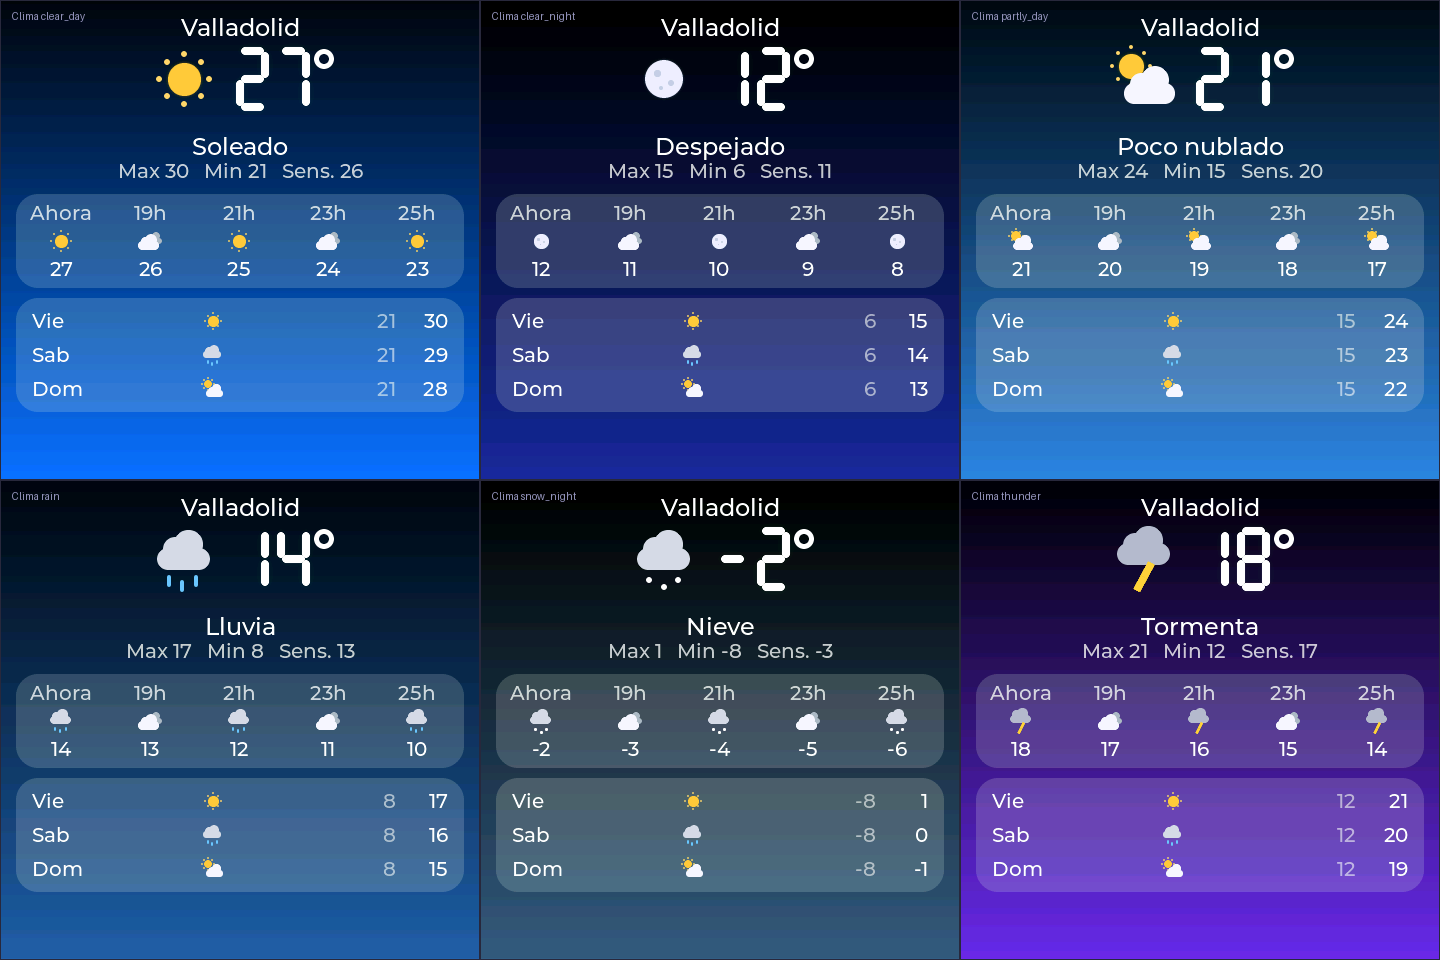
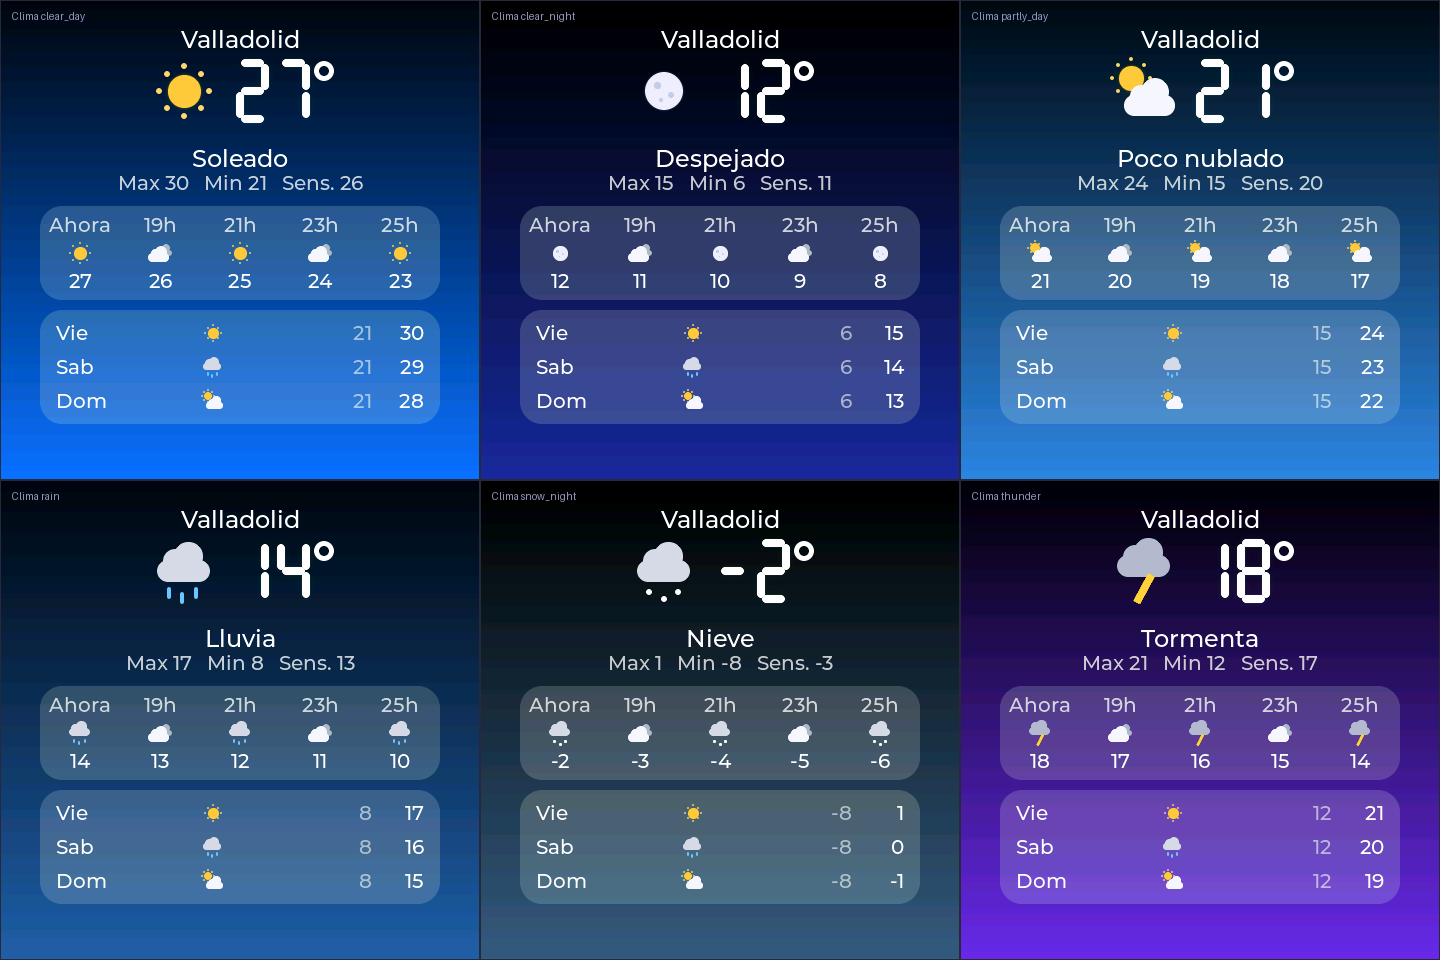
Halo sin sombras (evita bloqueos), aro de estado, caída completa en 480, drive sin sol tras la boca, ajustes y clima adaptados a 2.16
Claude-Session: https://claude.ai/code/session_01QWb9hv5xYpQ7Tn1j11KHGt

diff --git a/components/chipo_face/chipo_face.cpp b/components/chipo_face/chipo_face.cpp
@@ -88,7 +88,8 @@ bool IsDefaultGlow(uint32_t rgb) {
 }
 
 // Mouth shapes: the half-moon smile only fits happy faces; sad ones get it upside down.
-enum MouthKind : uint8_t { kMouthSmile = 0, kMouthFrown = 1, kMouthO = 2, kMouthFlat = 3 };
+enum MouthKind : uint8_t { kMouthSmile = 0, kMouthFrown = 1, kMouthO = 2, kMouthFlat = 3, kMouthGrin = 4 };
+constexpr uint32_t kRingCyan = 0x5CF0FF;   // ring + halo while listening / speaking (calm colour)
 constexpr uint32_t kHappyArc = 0xFFD2B0;   // closed happy eyes (peach)
 constexpr uint32_t kSleepArc = 0xC9B0FF;   // closed sleeping eyes (lilac)
 
@@ -213,8 +214,10 @@ bool ChipoFace::Start(lv_obj_t* parent) {
         return false;
     }
 
-    StyleGlow(left_eye_, kEyeCore, 20);
-    StyleGlow(right_eye_, kEyeCore, 20);
+    // No LVGL shadow on the eyes: software box shadows can stall the renderer for seconds on some sizes
+    // (seen at 480 x 480). The glow is drawn by the flat halo discs behind the eyes instead.
+    StyleGlow(left_eye_, kEyeCore, 0);
+    StyleGlow(right_eye_, kEyeCore, 0);
     StylePupil(left_pupil_);
     StylePupil(right_pupil_);
     // Two specular highlights on every pupil (a big and a small one) make the eyes look wet and deep.
@@ -287,6 +290,16 @@ bool ChipoFace::Start(lv_obj_t* parent) {
         MakeInert(brow);
         lv_obj_add_flag(brow, LV_OBJ_FLAG_HIDDEN);
     }
+    for (auto& halo : halo_) {  // [0..1] outer, [2..3] inner, per eye
+        halo = lv_obj_create(root_);
+        if (!halo) continue;
+        lv_obj_remove_style_all(halo);
+        lv_obj_set_style_bg_opa(halo, LV_OPA_TRANSP, LV_PART_MAIN);
+        lv_obj_set_style_radius(halo, LV_RADIUS_CIRCLE, LV_PART_MAIN);
+        MakeInert(halo);
+        lv_obj_move_background(halo);  // behind the eyes
+        lv_obj_add_flag(halo, LV_OBJ_FLAG_HIDDEN);
+    }
     for (auto& arc : eye_arc_) {
         arc = lv_arc_create(root_);
         if (!arc) continue;
@@ -301,7 +314,7 @@ bool ChipoFace::Start(lv_obj_t* parent) {
         lv_obj_add_flag(arc, LV_OBJ_FLAG_HIDDEN);
     }
     for (int i = 0; i < 3; ++i) {
-        StyleGlow(dots_[i], kEyeLilac, 8);
+        StyleGlow(dots_[i], kEyeLilac, 0);
         lv_obj_set_size(dots_[i], S(8), S(8));
         lv_obj_set_pos(dots_[i], S(kCenterX) + S((i - 1) * 22 - 4), S(kDotsY));
         lv_obj_add_flag(dots_[i], LV_OBJ_FLAG_HIDDEN);
@@ -436,6 +449,7 @@ void ChipoFace::Stop() {
     road_shown_ = false;
     root_ = left_eye_ = right_eye_ = left_pupil_ = right_pupil_ = mouth_ = tongue_ = bowl_ = inner_ = nullptr;
     eye_arc_[0] = eye_arc_[1] = nullptr;
+    for (auto& o : halo_) o = nullptr;
     for (auto& o : brow_) o = nullptr;
     for (auto& o : blush_) o = nullptr;
     for (auto& dot : dots_) dot = nullptr;
@@ -690,6 +704,7 @@ ChipoFace::Pose ChipoFace::TargetPose(State shown, Mood mood, Emotion emotion, u
         p.eye_h = 48;
         p.pupil_y = 4;
         p.mouth_w = 34; p.mouth_h = 11; p.mouth_cy = 168;  // frown
+        p.glow_r = 255; p.glow_g = 100; p.glow_b = 90;    // red ring: something went wrong
         break;
     case State::Sleep:
         p.eye_h = 4; p.pupil_h = 2;
@@ -1154,8 +1169,8 @@ void ChipoFace::Step(uint32_t now_ms) {
         vel_y_ += kFallAccelY * dt;
         face_x_ += vel_x_ * dt;
         face_y_ += vel_y_ * dt;
-        if (std::fabs(face_x_) >= (static_cast<float>(fx_w_) * 0.5f + kGoneMargin)) {  // gone: park it out of sight
-            face_x_ = static_cast<float>(fall_dir_) * (static_cast<float>(fx_w_) * 0.5f + kGoneMargin);
+        if (std::fabs(face_x_) >= (static_cast<float>(fx_w_) * 0.5f + kGoneMargin * fs_)) {  // gone: park it out of sight
+            face_x_ = static_cast<float>(fall_dir_) * (static_cast<float>(fx_w_) * 0.5f + kGoneMargin * fs_);
             vel_x_ = 0;
         }
         if (face_y_ >= kFallMaxDropY) {
@@ -1258,11 +1273,18 @@ void ChipoFace::Step(uint32_t now_ms) {
         default: break;
         }
         if (mood == Mood::Startled || mood == Mood::Dizzy) mk = kMouthO;  // "oh!"
+        if (drive_mode_ && mk == kMouthSmile) mk = kMouthGrin;  // cool driver: closed grin, no tongue over the sun
         layout.mouth_kind = mk;
         uint8_t arc = 0;
         if (emotion == Emotion::Happy || emotion == Emotion::Laugh) arc = 1;
         else if (emotion == Emotion::None && shown == State::Sleep) arc = 2;
         layout.eye_arc = arc;
+        // A glowing ring round the eyes tells "I'm listening / talking / something happened";
+        // calm faces (idle, thinking, asleep, sleepy) keep plain lilac eyes.
+        layout.ring = mood != Mood::Normal ||
+                      (emotion == Emotion::None
+                           ? (shown == State::Listening || shown == State::Speaking || shown == State::Error)
+                           : emotion != Emotion::Tired);
         if (arc) layout.pupils_visible = layout.right_pupil_visible = false;
         if (arc) layout.brows_visible = false;
         layout.blush_visible = emotion == Emotion::Happy || emotion == Emotion::Laugh || emotion == Emotion::Love ||
@@ -1273,7 +1295,8 @@ void ChipoFace::Step(uint32_t now_ms) {
     layout.face_dx = Round16(face_x_);
     float sway = 0;  // the car rocks the face gently while driving
     if (drive_mode_) sway = glasses_t_ * (2.0f * std::sin(static_cast<float>(now_ms) * 0.0022f) + road_jolt_ * 3.0f);
-    layout.face_dy = Round16(face_y_ + sway);
+    // Driving: the face rides a little higher so the sunset sits below the mouth, not behind it.
+    layout.face_dy = Round16(face_y_ + sway - glasses_t_ * 30.0f * fs_);
     UpdateGlasses(layout, dt);
     UpdateRoad(dt, now_ms);
     ApplyLayout(layout);
@@ -1377,8 +1400,8 @@ void ChipoFace::CreateRoad(lv_obj_t* parent) {
         MakeInert(o);
     };
     // Synthwave scenery (AMOLED: true black ground, saturated neon): a half sun sets on a glowing horizon.
-    const int horizon_y = static_cast<int>(h * 0.70f);
-    const int sun_d = 170;
+    const int horizon_y = static_cast<int>(h * 0.78f);  // low enough that the sun sits under the face
+    const int sun_d = 150;
     sun_ = lv_obj_create(road_);
     sun_mask_ = lv_obj_create(road_);
     horizon_ = lv_obj_create(road_);
@@ -1580,28 +1603,14 @@ void ChipoFace::ApplyLayout(const Layout& l) {
     if (first || l.mouth_x != a.mouth_x || l.mouth_y != a.mouth_y) {
         lv_obj_set_pos(mouth_, l.mouth_x, l.mouth_y);
     }
-    if (first || l.glow_w != a.glow_w) {
-        for (lv_obj_t* o : {left_eye_, right_eye_}) {
-            lv_obj_set_style_shadow_width(o, l.glow_w, LV_PART_MAIN);
-        }
-    }
-    if (first || l.glow_opa != a.glow_opa) {
-        const lv_opa_t opa = static_cast<lv_opa_t>(l.glow_opa * 255 / 100);
-        for (lv_obj_t* o : {left_eye_, right_eye_}) {
-            lv_obj_set_style_shadow_opa(o, opa, LV_PART_MAIN);
-        }
-    }
-    if (first || l.glow_rgb != a.glow_rgb) {
+    if (first || l.glow_rgb != a.glow_rgb || l.ring != a.ring) {
         const lv_color_t color = lv_color_hex(l.glow_rgb);
-        for (lv_obj_t* o : {left_eye_, right_eye_}) {
-            lv_obj_set_style_shadow_color(o, color, LV_PART_MAIN);
-        }
         // Cute skin: the mouth is a pink smile and the eyes lilac; the state colour tints them (about a third)
         // so LISTENING / THINKING / ERROR / the emotions still read, and keeps the soft halo around them.
         lv_obj_set_style_bg_color(bowl_, (IsDefaultGlow(l.glow_rgb) ? lv_color_hex(kMouthLip) : lv_color_mix(color, lv_color_hex(kMouthLip), 80)), LV_PART_MAIN);
         for (lv_obj_t* o : {left_eye_, right_eye_}) {  // a coloured ring tells the state; plain lilac when calm
-            lv_obj_set_style_border_width(o, IsDefaultGlow(l.glow_rgb) ? 0 : S(5), LV_PART_MAIN);
-            lv_obj_set_style_border_color(o, color, LV_PART_MAIN);
+            lv_obj_set_style_border_width(o, l.ring ? S(5) : 0, LV_PART_MAIN);
+            lv_obj_set_style_border_color(o, IsDefaultGlow(l.glow_rgb) ? lv_color_hex(kRingCyan) : color, LV_PART_MAIN);
             lv_obj_set_style_border_opa(o, LV_OPA_COVER, LV_PART_MAIN);
         }
         for (lv_obj_t* o : {left_eye_, right_eye_}) {
@@ -1636,9 +1645,10 @@ void ChipoFace::ApplyLayout(const Layout& l) {
             lv_obj_set_size(bowl_, w, std::max<int>(S(5), std::min<int>(h, S(8))));
             lv_obj_set_pos(bowl_, 0, std::max(0, (h - S(8)) / 2));
             break;
-        default:           // half-moon smile, open with tongue when it is big enough
+        default:           // half-moon smile, open with tongue when it is big enough (a grin stays closed)
             lv_obj_set_size(bowl_, w, 2 * h);
             lv_obj_set_pos(bowl_, 0, -h);
+            if (l.mouth_kind == kMouthGrin) break;
             if (open && inner_) {
                 lv_obj_set_size(inner_, w - 2 * rim, 2 * (h - rim));
                 lv_obj_set_pos(inner_, rim, -h + rim);
@@ -1655,6 +1665,31 @@ void ChipoFace::ApplyLayout(const Layout& l) {
         }
         if (inner_) { if (show_inner) lv_obj_remove_flag(inner_, LV_OBJ_FLAG_HIDDEN); else lv_obj_add_flag(inner_, LV_OBJ_FLAG_HIDDEN); }
         if (tongue_) { if (show_tongue) lv_obj_remove_flag(tongue_, LV_OBJ_FLAG_HIDDEN); else lv_obj_add_flag(tongue_, LV_OBJ_FLAG_HIDDEN); }
+    }
+    if (halo_[0] && halo_[1] && halo_[2] && halo_[3] &&
+        (first || l.ring != a.ring || l.glow_rgb != a.glow_rgb || l.glow_w != a.glow_w || l.glow_opa != a.glow_opa ||
+         l.eye_arc != a.eye_arc || l.eye_w != a.eye_w || l.eye_h != a.eye_h || l.eye_y != a.eye_y ||
+         l.right_eye_h != a.right_eye_h || l.right_eye_y != a.right_eye_y || l.left_eye_x != a.left_eye_x ||
+         l.right_eye_x != a.right_eye_x)) {
+        // A soft coloured halo that grows with the face: the shadow glow cannot be scaled up (big software
+        // shadows stall the renderer), so on bigger panels this flat disc carries the state colour.
+        const bool on = l.ring && l.eye_arc == 0;
+        const int g = S(6) + static_cast<int>(static_cast<float>(l.glow_w) * fs_ * 0.35f);
+        const int base = std::min<int>(255, l.glow_opa * 255 / 100);
+        const int16_t hs[2] = {l.eye_h, l.right_eye_h};
+        const int16_t ys[2] = {l.eye_y, l.right_eye_y};
+        const int16_t xs[2] = {l.left_eye_x, l.right_eye_x};
+        for (int k = 0; k < 4; ++k) {
+            const int i = k & 1;                     // which eye
+            const int gg = k < 2 ? g : g / 2;        // outer, then inner ring
+            const int opa = base * (k < 2 ? 18 : 30) / 100;
+            if (!on) { lv_obj_add_flag(halo_[k], LV_OBJ_FLAG_HIDDEN); continue; }
+            lv_obj_set_size(halo_[k], l.eye_w + 2 * gg, hs[i] + 2 * gg);
+            lv_obj_set_pos(halo_[k], xs[i] - gg, ys[i] - gg);
+            lv_obj_set_style_bg_color(halo_[k], lv_color_hex(IsDefaultGlow(l.glow_rgb) ? kRingCyan : l.glow_rgb), LV_PART_MAIN);
+            lv_obj_set_style_bg_opa(halo_[k], static_cast<lv_opa_t>(opa), LV_PART_MAIN);
+            lv_obj_remove_flag(halo_[k], LV_OBJ_FLAG_HIDDEN);
+        }
     }
     if (eye_arc_[0] && eye_arc_[1] &&
         (first || l.eye_arc != a.eye_arc || l.eye_w != a.eye_w || l.left_eye_x != a.left_eye_x ||

diff --git a/components/chipo_settings/chipo_settings.cpp b/components/chipo_settings/chipo_settings.cpp
@@ -164,38 +164,42 @@ void ChipoSettings::Build(const lv_font_t* font, const char* version) {
     menu_ = Box(lv_screen_active(), 0, 0, w, h, 0, 0x000000);
     lv_obj_add_flag(menu_, LV_OBJ_FLAG_CLICKABLE);  // swallows the taps: nothing under the menu reacts
     lv_obj_add_flag(menu_, LV_OBJ_FLAG_HIDDEN);
-    const int ox = w > kLayoutW ? (w - kLayoutW) / 2 : 0;
+    // Wider panels (2.16": 480 px) get a wider menu: same rows, longer bars and buttons, centred.
+    const int cw = std::min(std::max(w, kLayoutW), 440);
+    const int ox = (w - cw) / 2;
     const int oy = h > kLayoutH ? (h - kLayoutH) / 2 : 0;
-    lv_obj_t* content = Box(menu_, ox, oy, kLayoutW, kLayoutH, 0, 0x000000, 0);
+    const int bar_x = 24 + 64 + 14, bar_w = cw - 2 * bar_x, plus_x = cw - 24 - 64;
+    const int half_w = (cw - 48 - 16) / 2;
+    lv_obj_t* content = Box(menu_, ox, oy, cw, kLayoutH, 0, 0x000000, 0);
     lv_obj_set_style_bg_opa(content, LV_OPA_TRANSP, 0);
-    lv_obj_t* title = Text(content, font, 0, 18, kLayoutW, kCyan, LV_TEXT_ALIGN_CENTER);
+    lv_obj_t* title = Text(content, font, 0, 18, cw, kCyan, LV_TEXT_ALIGN_CENTER);
     lv_label_set_text(title, "AJUSTES");
     lv_obj_set_style_text_letter_space(title, 4, 0);
 
     lv_obj_t* l_vol = Text(content, font, 24, 68, 160, 0xFFFFFF, LV_TEXT_ALIGN_LEFT);
     lv_label_set_text(l_vol, "Volumen");
-    val_vol_ = Text(content, font, 204, 68, 140, kCyan, LV_TEXT_ALIGN_RIGHT);
+    val_vol_ = Text(content, font, cw - 24 - 140, 68, 140, kCyan, LV_TEXT_ALIGN_RIGHT);
     lv_obj_t* b0 = Button(content, font, 24, 104, 64, 50, "-", kCyan);
-    bar_vol_ = Bar(content, 102, 121, 164);
-    lv_obj_t* b1 = Button(content, font, 280, 104, 64, 50, "+", kCyan);
+    bar_vol_ = Bar(content, bar_x, 121, bar_w);
+    lv_obj_t* b1 = Button(content, font, plus_x, 104, 64, 50, "+", kCyan);
 
     lv_obj_t* l_bri = Text(content, font, 24, 176, 160, 0xFFFFFF, LV_TEXT_ALIGN_LEFT);
     lv_label_set_text(l_bri, "Brillo");
-    val_bri_ = Text(content, font, 204, 176, 140, kPink, LV_TEXT_ALIGN_RIGHT);
+    val_bri_ = Text(content, font, cw - 24 - 140, 176, 140, kPink, LV_TEXT_ALIGN_RIGHT);
     lv_obj_t* b2 = Button(content, font, 24, 212, 64, 50, "-", kPink);
-    bar_bri_ = Bar(content, 102, 229, 164);
-    lv_obj_t* b3 = Button(content, font, 280, 212, 64, 50, "+", kPink);
+    bar_bri_ = Bar(content, bar_x, 229, bar_w);
+    lv_obj_t* b3 = Button(content, font, plus_x, 212, 64, 50, "+", kPink);
 
-    info_bat_ = Text(content, font, 24, 292, 320, kGreen, LV_TEXT_ALIGN_LEFT);
-    info_wifi_ = Text(content, font, 24, 326, 320, kCyan, LV_TEXT_ALIGN_LEFT);
-    info_ver_ = Text(content, font, 24, 360, 320, 0x9AA7B2, LV_TEXT_ALIGN_LEFT);
+    info_bat_ = Text(content, font, 24, 292, cw - 48, kGreen, LV_TEXT_ALIGN_LEFT);
+    info_wifi_ = Text(content, font, 24, 326, cw - 48, kCyan, LV_TEXT_ALIGN_LEFT);
+    info_ver_ = Text(content, font, 24, 360, cw - 48, 0x9AA7B2, LV_TEXT_ALIGN_LEFT);
     char buf[64];
     std::snprintf(buf, sizeof(buf), "CHIPO OS %s", version);
     lv_label_set_text(info_ver_, buf);
 
-    lv_obj_t* b4 = Button(content, font, 24, 394, 152, 46, "Reiniciar", kPink);
+    lv_obj_t* b4 = Button(content, font, 24, 394, half_w, 46, "Reiniciar", kPink);
     restart_label_ = lv_obj_get_child(b4, 0);
-    lv_obj_t* b5 = Button(content, font, 192, 394, 152, 46, "Cerrar", kCyan);
+    lv_obj_t* b5 = Button(content, font, 24 + half_w + 16, 394, half_w, 46, "Cerrar", kCyan);
 
     lv_obj_t* buttons[kActionCount] = {b0, b1, b2, b3, b4, b5};
     for (int i = 0; i < kActionCount; ++i) {

diff --git a/components/chipo_weather/chipo_weather_view.cpp b/components/chipo_weather/chipo_weather_view.cpp
@@ -269,7 +269,7 @@ void ChipoWeatherView::RenderStatus(const char* title, const char* line) {
     if (!root_) return;
     BeginRender(WeatherKind::Cloudy, true, true);
     const int lh_m = lv_font_get_line_height(fonts_.medium);
-    int y = 14;
+    int y = 14 + (width_ > 400 ? 12 : 0);  // bigger panels (2.16") have rounded corners: keep clear of them
     lv_obj_t* l = Label(content_, title ? title : "CHIPO", fonts_.medium, kWhite);
     lv_obj_align(l, LV_ALIGN_TOP_MID, 0, y);
     y += lh_m + 6;
@@ -286,9 +286,10 @@ void ChipoWeatherView::Render(const WeatherData& d) {
     BeginRender(d.kind, d.is_day, false);
     const int lh_s = lv_font_get_line_height(fonts_.small);
     const int lh_m = lv_font_get_line_height(fonts_.medium);
-    const int margin = 16;
+    const int edge = width_ > 400 ? 24 : 0;  // 2.16" (480 x 480): rounded corners, keep the cards clear of them
+    const int margin = 16 + edge;
     char buf[48];
-    int y = 14;
+    int y = 14 + edge / 2;
 
     lv_obj_t* city = Label(content_, d.city[0] ? d.city : "CHIPO", fonts_.medium, kWhite);
     lv_obj_align(city, LV_ALIGN_TOP_MID, 0, y);
@@ -332,7 +333,7 @@ void ChipoWeatherView::Render(const WeatherData& d) {
 
     // ---- next days (as many rows as fit above the bottom margin) -------------------------------
     const int row_h = std::max(lh_s + 10, 34);
-    const int room = height_ - 22 - y - 12;
+    const int room = height_ - 22 - y - 12 - edge / 2;
     const int rows = std::min(d.day_count, std::max(0, room / row_h));
     if (rows > 0) {
         lv_obj_t* dcard = Shape(content_, margin, y, width_ - 2 * margin, rows * row_h + 12, 22, kWhite, LV_OPA_20);

diff --git a/tests/host/render_anim.cpp b/tests/host/render_anim.cpp
@@ -1,6 +1,7 @@
 // Developer tool (not a test): renders CHIPO's face animations as numbered PPM frames, one folder per
 // sequence, to review the motion and build GIFs. Usage: render_anim <out_dir> [width height]
 // Sequences: conversation (idle -> listening -> thinking -> speaking -> idle), emotions, sleep, yawn.
+#include <cmath>
 #include <cstdio>
 #include <cstdlib>
 #include <string>
@@ -8,6 +9,13 @@
 #include <sys/stat.h>
 
 #include "chipo_face.h"
+
+// Fake accelerometer: gravity on +Y when CHIPO stands upright (as in test_face.cpp).
+static ImuSample g_imu{0, 1, 0};
+static void SetRoll(float deg) {
+    const float r = deg * 3.14159265f / 180.0f;
+    g_imu = {std::sin(r), std::cos(r), 0};
+}
 
 static uint32_t g_now = 1000;
 static uint32_t FakeTick() { return g_now; }
@@ -54,6 +62,7 @@ int main(int argc, char** argv) {
     ChipoFace face;
     face.SetIdleQuirks(false);
     face.Start(lv_screen_active());
+    face.SetTiltSource([](ImuSample* s) { *s = g_imu; return true; });
     for (int i = 0; i < 40; ++i) { g_now += 40; lv_timer_handler(); }
 
     std::string dir;
@@ -108,5 +117,16 @@ int main(int argc, char** argv) {
     face.ShowEmotion(ChipoFace::Emotion::Tired, 60000);
     play(5400);
     face.ShowEmotion(ChipoFace::Emotion::None);
+    play(800);
+
+    // Tilted past 45 degrees the face slides off the side, then comes back when CHIPO stands up.
+    begin("fall");
+    SetRoll(0);
+    play(1200);
+    SetRoll(55);
+    play(2400);
+    std::printf("fall: face_dx %d (screen %d px wide)\n", face.Debug().face_dx, W);
+    SetRoll(0);
+    play(3000);
     return 0;
 }

diff --git a/components/chipo_face/include/chipo_face.h b/components/chipo_face/include/chipo_face.h
@@ -218,6 +218,7 @@ private:
         bool blush_visible;   // only while CHIPO likes something
         uint8_t mouth_kind;   // MouthKind
         uint8_t eye_arc;      // 0 open eyes, 1 happy arcs (like ^ ^), 2 sleepy arcs (like u u)
+        bool ring;            // coloured ring + halo round the eyes
     };
 
     bool has_tint_ = false;
@@ -241,7 +242,8 @@ private:
     lv_obj_t* right_pupil_ = nullptr;
     lv_obj_t* mouth_ = nullptr;
     lv_obj_t* tongue_ = nullptr;      // red tongue inside the mouth (cute skin)
-    lv_obj_t* eye_arc_[2] = {nullptr, nullptr};  // closed eyes drawn as arcs (happy / asleep)
+    lv_obj_t* eye_arc_[2] = {nullptr, nullptr};
+    lv_obj_t* halo_[4] = {};  // flat translucent glow behind the eyes: outer pair, inner pair (scales with the face)  // closed eyes drawn as arcs (happy / asleep)
     lv_obj_t* inner_ = nullptr;       // dark inside of the open mouth
     lv_obj_t* brow_[2] = {nullptr, nullptr};
     lv_obj_t* blush_[2] = {nullptr, nullptr};  // soft translucent blush under the eyes

diff --git a/docs/CHIPO_FACE.md b/docs/CHIPO_FACE.md
@@ -154,3 +154,11 @@ El color del estado (escuchando, error, amor…) sigue tiñendo ojos y boca. Ima
   el rojo queda para avisos. El arranque muestra los ojos de CHIPO.
 - Animaciones revisadas en GIF a 480×480: `docs/img/chipo_216_anim_*.gif` (simulación en PC).
 - Límite conocido: el halo de brillo de los ojos no se escala con la cara (sombras grandes colgaban el render).
+- Brillo de los ojos: ya no usa sombras de LVGL (en 480×480 un fotograma podía tardar segundos). Ahora es un aro de
+  color en el borde del ojo más dos discos translúcidos detrás, que crecen con la cara. Aro cian al escuchar y
+  hablar, rojo en error, del color de la emoción en las demás; en reposo, pensando y dormido los ojos van limpios.
+- Caída al inclinar: en la 2.16" la cara sale del todo por el borde (antes se quedaba asomando) y vuelve al
+  enderezar. GIF: `docs/img/chipo_216_anim_fall.gif`.
+- Drive: la cara sube un poco y el sol es más pequeño y más bajo; la sonrisa queda cerrada (sin lengua).
+- Ajustes: en pantallas anchas las barras y botones se alargan (hasta 440 px). Clima: márgenes mayores para
+  no tocar las esquinas redondeadas de la 2.16".
